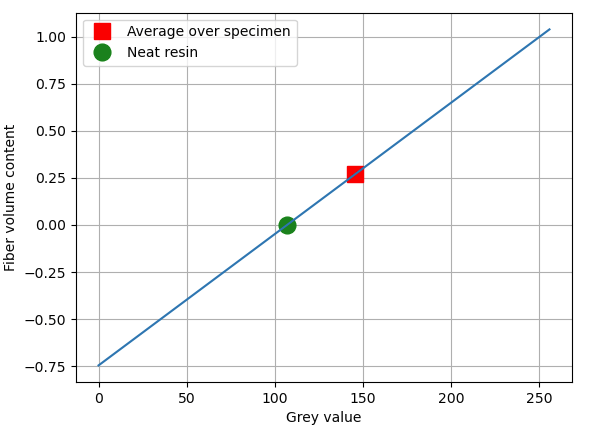
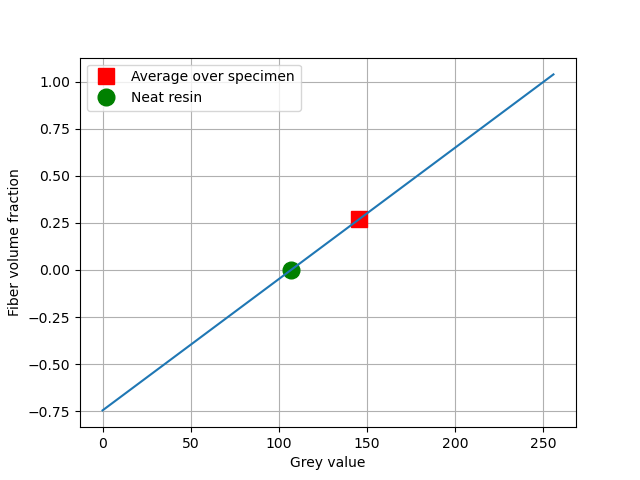
"fvc" to "fvf"...

diff --git a/fiberspot/core.py b/fiberspot/core.py
@@ -99,15 +99,15 @@ def get_local_fiber_volume_fraction(arguments):
         )
 
     ########################################
-    # Local fiber volume content
-    fvc_map = fiberspot.LocalFiberVolumeFractionMap(
+    # Local fiber volume fraction
+    fvf_map = fiberspot.LocalFiberVolumeFractionMap(
         average_grey=np.mean(image_arrays["specimen"]),
         average_volume_fraction=arguments["average_volume_fraction_specimen"],
         neat_grey=np.mean(image_arrays["neat_resin"]),
     )
 
     if plot:
-        fiberspot.plotting.plot_fiber_volume_fraction(fvc_map, plot_directory=directory)
+        fiberspot.plotting.plot_fiber_volume_fraction(fvf_map, plot_directory=directory)
 
     ########################################
     # Define bunch of filters
@@ -146,19 +146,19 @@ def get_local_fiber_volume_fraction(arguments):
             )
 
     ########################################
-    # Map mean onto fiber volume content
+    # Map mean onto fiber volume fraction
     fiber_volume_fraction = {}
     for filter_key, filter in available_filter_functions.items():
 
-        fiber_volume_fraction[filter_key] = fvc = fvc_map(
+        fiber_volume_fraction[filter_key] = fvf = fvf_map(
             np.array(mean_values[filter_key])
         )
 
         if plot:
             fiberspot.plotting.plot_image(
-                image=fvc,
+                image=fvf,
                 title="Fiber volume fraction",
-                path=os.path.join(directory, "fvcs" + "_" + filter_key + ".png"),
+                path=os.path.join(directory, "fvfs" + "_" + filter_key + ".png"),
             )
 
     return {"mean": mean_values, "fiber_volume_fraction": fiber_volume_fraction}

diff --git a/fiberspot/plotting.py b/fiberspot/plotting.py
@@ -48,23 +48,23 @@ def plot_bands_of_image(path, box, plot_directory):
     plt.close(fig)
 
 
-def plot_fiber_volume_fraction(fvc_map, plot_directory):
+def plot_fiber_volume_fraction(fvf_map, plot_directory):
     fig = plt.figure()
     x = np.linspace(0, 256, 300)
-    y = fvc_map(value=x)
+    y = fvf_map(value=x)
 
     args = dict(linewidth=4, markersize=12)
 
     plt.plot(
-        fvc_map.average_grey,
-        fvc_map.average_volume_fraction,
+        fvf_map.average_grey,
+        fvf_map.average_volume_fraction,
         "rs",
         label="Average over specimen",
         **args,
     )
     plt.plot(
-        fvc_map.neat_grey,
-        fvc_map.neat_volume_fraction,
+        fvf_map.neat_grey,
+        fvf_map.neat_volume_fraction,
         "go",
         label="Neat resin",
         **args,
@@ -75,7 +75,7 @@ def plot_fiber_volume_fraction(fvc_map, plot_directory):
     plt.grid()
     plt.legend()
 
-    path_picture = os.path.join(plot_directory, f"fvc")
+    path_picture = os.path.join(plot_directory, f"fvf")
     plt.savefig(path_picture + ".png")
     plt.tight_layout()
     plt.close(fig)

diff --git a/test/test_core.py b/test/test_core.py
@@ -12,8 +12,8 @@ class Test_Core:
 
         box = arguments["specimen"]["box"]
         box_shape = (box[3] - box[1], box[2] - box[0])
-        for fvc_key, fvc in result["fiber_volume_fraction"].items():
-            assert np.allclose(fvc.shape, box_shape)
+        for fvf_key, fvf in result["fiber_volume_fraction"].items():
+            assert np.allclose(fvf.shape, box_shape)
 
 
 if __name__ == "__main__":

diff --git a/README.md b/README.md
@@ -18,19 +18,19 @@ See [license](https://github.com/JulianKarlBauer/fiberspot/blob/main/LICENSE) an
 ```
 --------------------------------------------------
 
-## Local Fiber Volume Content
+## Local Fiber Volume fraction
 
 The algorithm described here is very simple.
 Applicability is not proven and potential problems are discussed below.
 
 ### Motivation
-Local fiber volume content is the fiber orientation information of zeroth order.
-Spatial variance of fiber volume content is an inherent property of inhomogeneous
+Local fiber volume fraction is the fiber orientation information of zeroth order.
+Spatial variance of fiber volume fraction is an inherent property of inhomogeneous
 materials.
 Accurate determination of local mechanical properties by e.g. homogenization schemes
-requires knowledge on the local fiber volume content.
+requires knowledge on the local fiber volume fraction.
 
-Local fiber volume content can be determined by analyzing reflection and
+Local fiber volume fraction can be determined by analyzing reflection and
 distraction of radiation as e.g. x-rays.
 
 Optical measurements, i.e. images taken with conventional cameras, are
@@ -44,7 +44,7 @@ If a flat, shell-like specimen is illuminated from one side and the transmitted
 light intensity is measured by on optical sensor (camera) from the other side, we call
 the resulting image an radiography image.
 
-This package maps light intensity of radiography images to local fiber volume content.
+This package maps light intensity of radiography images to local fiber volume fraction.
 The key idea can be used for any heterogeneous materials consisting of phases with
 differing transparency or noticeable reflection at the interfaces of the phases.
 An example are some glass fiber reinforced thermosets.
@@ -59,10 +59,10 @@ An example are some glass fiber reinforced thermosets.
 
 ### Algorithm
 
-- Identify linear mapping between local fiber volume content and light intensity
+- Identify linear mapping between local fiber volume fraction and light intensity
   from the following two measurements:
-	1. Light intensity in specific region with fiber volume content equals zero, i.e.  without fibers
-	2. Average light intensity of specimen correlating with average volume fiber content of the specimen
+	1. Light intensity in specific region with fiber volume fraction equals zero, i.e.  without fibers
+	2. Average light intensity of specimen correlating with average volume fiber fraction of the specimen
 
 Inverted light intensity, i.e. darkness:
 
@@ -72,7 +72,7 @@ Inverted light intensity, i.e. darkness:
 
 ```
 
-![X-y plot of fiber volume content over grey value with two special point pairs: Average specimen and neat resin](doc/example_fiber_volume_fraction.png)
+![X-y plot of fiber volume fraction over grey value with two special point pairs: Average specimen and neat resin](doc/example_fiber_volume_fraction.png)
 
 ## Installation
 
@@ -91,9 +91,9 @@ Note: [Develop vs. install](https://stackoverflow.com/a/19048754/8935243)
 See [example script](fiberspot/example_script.py) generating
 
 Gaussian filter with radius 60pixel
-![Fiber volume content as colomap using box filter](doc/fvcs_gaussian_PIL.png)
+![Fiber volume fraction as colomap using box filter](doc/fvfs_gaussian_PIL.png)
 
 Box mean with radius 60pixel
-![Fiber volume content as colomap using box filter](doc/fvcs_box_PIL.png)
+![Fiber volume fraction as colomap using box filter](doc/fvfs_box_PIL.png)
 
 
